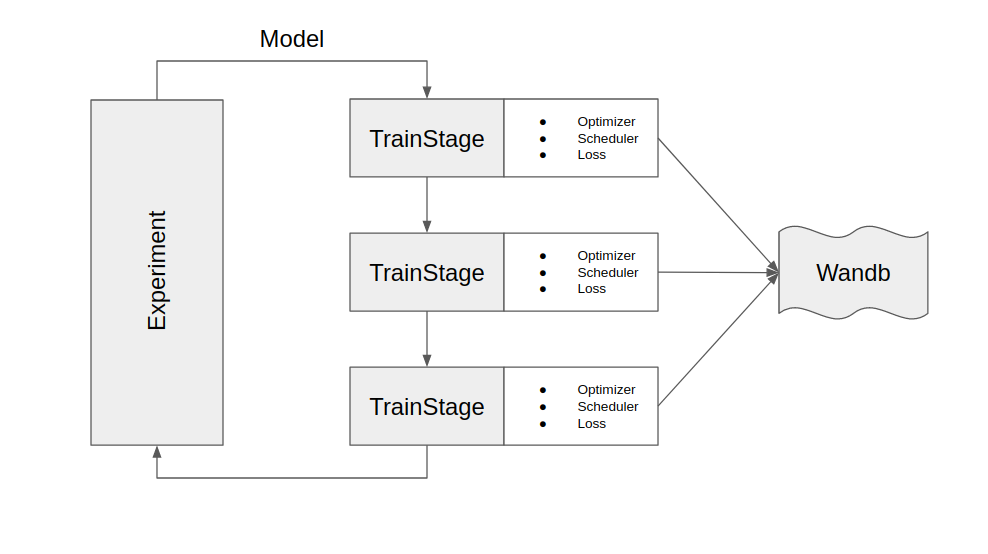
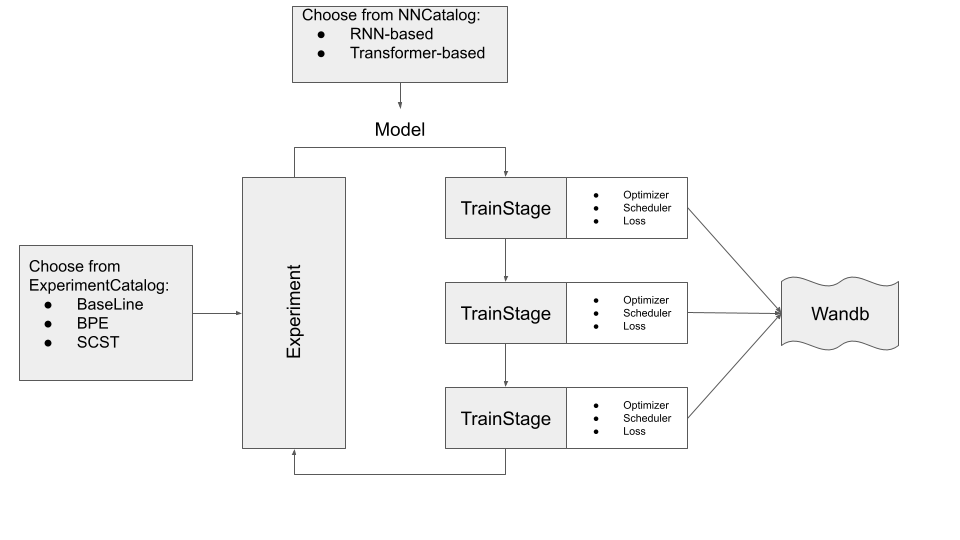
update README.md

diff --git a/homeworks/Lab02_NMT/README.md b/homeworks/Lab02_NMT/README.md
@@ -1,1 +1,14 @@
-Lab assignment 2: NMT [![Open In Colab](https://colab.research.google.com/assets/colab-badge.svg)](https://colab.research.google.com/github/neychev/made_nlp_course/blob/spring2021/homeworks/Lab02_NMT/Lab2_NMT.ipynb)
+![scheme](image/experiment.png)
+
+Для удобства разработки была сделана попытка сделать как можно более гибкий шаблон экспериментов. Конечно без костылей не обошлось, однако шаблон сильно упростил расширение библиотеки экспериментов.
+Шаблон включает в себя несколько похожих этапов:
+* чтение данных
+* инициализация моделей
+* инициализация оптимизатора и т.д.
+
+Т.к. в данной лабораторной работе все эксперименты проходили с одним и тем же датасетом, получилось добавлять новые эксперименты не путем наследования базового класса, а с помощью интерфейса Train_stage (идейно это общий интерфейс, на практике интерфейс+изолента :D). Т.е. создавались новые Stage'ы и компоновались с помощью ComposeStage, где прогонялись последовательно.
+
+Для логирования использовалась библиотека wandb. Если был запущен где-то wandb.init(), то графики будут логироваться, иначе будет принтится основной лосс на трейне и валидации. Также модели сохраняются в папку с именем run'а из wandb, что может быть достаточно удобным. Так же в папку run'а сохранялся конфиг + мета информация (скорость инференса, время обучения, блеу)  
+
+![scheme](image/wandb_log.jpg)
+
